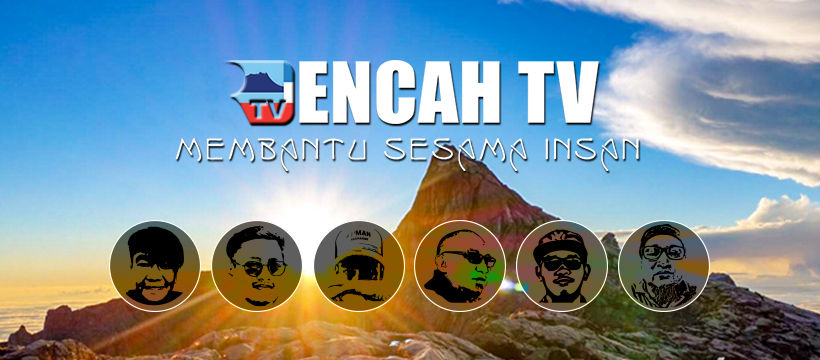
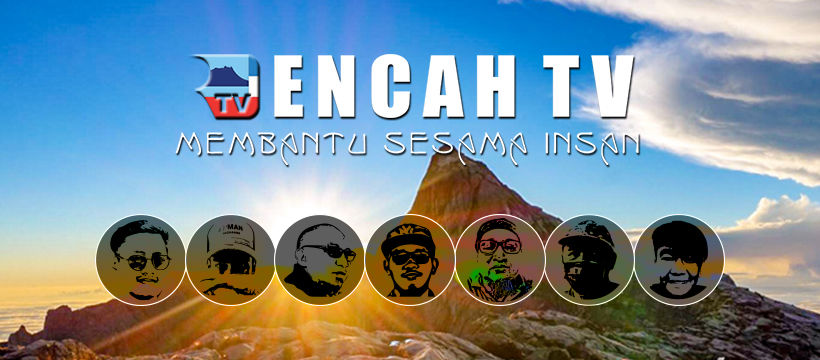
create github pages

Changed region(s): [[0.0915, 0.5806, 0.8841, 0.8861], [0.2134, 0.1528, 0.7927, 0.4889]]

diff --git a/about_us.html b/about_us.html
@@ -71,7 +71,7 @@
             <div class="title col-12 col-md-8">
                 <h2 class="align-center pb-3 mbr-fonts-style display-2">
                     About Us</h2>
-                <h3 class="mbr-section-subtitle align-center mbr-light mbr-fonts-style display-5"><strong>Rencah TV</strong>&nbsp;was founded in April 2020 as a content creator for Social Media, especially for&nbsp;<a href="https://www.youtube.com/channel/UC7u6Jh6WUaoHJHxSxPU76bg" class="text-primary">YouTube Channel</a>. We also creating content for Docu, Advertising Media, and Broadcasting platforms. Rencah TV founded by a servant of God with the title of Khalifah Seni from Papar Sabah. At the beginning of its establishment, Rencah TV had only two members and has now become a team of six members. As a multi-genre content creator, Rencah TV will create many segments of video for audience entertainment. We will strive to give the best to our followers and strive to improve our level and skill step by step. Thank you for your snack time with us.</h3>
+                <h3 class="mbr-section-subtitle align-center mbr-light mbr-fonts-style display-5"><strong>Rencah TV</strong>&nbsp;was founded in April 2020 as a content creator for Social Media, especially for&nbsp;<a href="https://www.youtube.com/channel/UC7u6Jh6WUaoHJHxSxPU76bg" class="text-primary">YouTube Channel</a>. We also creating content for Docu, Advertising Media, and Broadcasting platforms. Rencah TV founded by a servant of God with the title of Khalifah Seni from Papar Sabah. At the beginning of its establishment, Rencah TV had only two members and has now become a team of seven members. As a multi-genre content creator, Rencah TV will create many segments of video for audience entertainment. We will strive to give the best to our followers and strive to improve our level and skill step by step. Thank you for your snack time with us.</h3>
                 
             </div>
         </div>
@@ -275,7 +275,7 @@
             </div>
         </div>
     </div>
-</section><section style="background-color: #fff; font-family: -apple-system, BlinkMacSystemFont, 'Segoe UI', 'Roboto', 'Helvetica Neue', Arial, sans-serif; color:#aaa; font-size:12px; padding: 0; align-items: center; display: flex;"><a href="https://mobirise.site/g" style="flex: 1 1; height: 3rem; padding-left: 1rem;"></a><p style="flex: 0 0 auto; margin:0; padding-right:1rem;"><a href="https://mobirise.site/r" style="color:#aaa;">This website</a> was built with Mobirise themes</p></section><script src="assets/web/assets/jquery/jquery.min.js"></script>  <script src="assets/popper/popper.min.js"></script>  <script src="assets/bootstrap/js/bootstrap.min.js"></script>  <script src="assets/web/assets/cookies-alert-plugin/cookies-alert-core.js"></script>  <script src="assets/web/assets/cookies-alert-plugin/cookies-alert-script.js"></script>  <script src="assets/tether/tether.min.js"></script>  <script src="assets/smoothscroll/smooth-scroll.js"></script>  <script src="assets/viewportchecker/jquery.viewportchecker.js"></script>  <script src="assets/dropdown/js/nav-dropdown.js"></script>  <script src="assets/dropdown/js/navbar-dropdown.js"></script>  <script src="assets/touchswipe/jquery.touch-swipe.min.js"></script>  <script src="assets/theme/js/script.js"></script>  
+</section><section style="background-color: #fff; font-family: -apple-system, BlinkMacSystemFont, 'Segoe UI', 'Roboto', 'Helvetica Neue', Arial, sans-serif; color:#aaa; font-size:12px; padding: 0; align-items: center; display: flex;"><a href="https://mobirise.site/d" style="flex: 1 1; height: 3rem; padding-left: 1rem;"></a><p style="flex: 0 0 auto; margin:0; padding-right:1rem;">Make your own <a href="https://mobirise.site/y" style="color:#aaa;">web page</a> with Mobirise</p></section><script src="assets/web/assets/jquery/jquery.min.js"></script>  <script src="assets/popper/popper.min.js"></script>  <script src="assets/bootstrap/js/bootstrap.min.js"></script>  <script src="assets/web/assets/cookies-alert-plugin/cookies-alert-core.js"></script>  <script src="assets/web/assets/cookies-alert-plugin/cookies-alert-script.js"></script>  <script src="assets/tether/tether.min.js"></script>  <script src="assets/smoothscroll/smooth-scroll.js"></script>  <script src="assets/viewportchecker/jquery.viewportchecker.js"></script>  <script src="assets/dropdown/js/nav-dropdown.js"></script>  <script src="assets/dropdown/js/navbar-dropdown.js"></script>  <script src="assets/touchswipe/jquery.touch-swipe.min.js"></script>  <script src="assets/theme/js/script.js"></script>  
   
   
 <input name="cookieData" type="hidden" data-cookie-customDialogSelector='null' data-cookie-colorText='#232323' data-cookie-colorBg='rgba(234, 239, 241, 0.99)' data-cookie-textButton='Okay' data-cookie-colorButton='' data-cookie-colorLink='#424a4d' data-cookie-underlineLink='true' data-cookie-text="This website uses cookies. We use cookies to personalise content and ads, to provide social media features and to analyse our traffic. We also share information about your use of our site with our social media, advertising and analytics partners who may combine it with other information that you’ve provided to them or that they’ve collected from your use of their services">

diff --git a/activity.html b/activity.html
@@ -163,7 +163,7 @@
             </div>
         </div>
     </div>
-</section><section style="background-color: #fff; font-family: -apple-system, BlinkMacSystemFont, 'Segoe UI', 'Roboto', 'Helvetica Neue', Arial, sans-serif; color:#aaa; font-size:12px; padding: 0; align-items: center; display: flex;"><a href="https://mobirise.site/v" style="flex: 1 1; height: 3rem; padding-left: 1rem;"></a><p style="flex: 0 0 auto; margin:0; padding-right:1rem;">Site was <a href="https://mobirise.site/h" style="color:#aaa;">designed with</a> Mobirise</p></section><script src="assets/web/assets/jquery/jquery.min.js"></script>  <script src="assets/popper/popper.min.js"></script>  <script src="assets/bootstrap/js/bootstrap.min.js"></script>  <script src="assets/web/assets/cookies-alert-plugin/cookies-alert-core.js"></script>  <script src="assets/web/assets/cookies-alert-plugin/cookies-alert-script.js"></script>  <script src="assets/tether/tether.min.js"></script>  <script src="assets/smoothscroll/smooth-scroll.js"></script>  <script src="assets/viewportchecker/jquery.viewportchecker.js"></script>  <script src="assets/dropdown/js/nav-dropdown.js"></script>  <script src="assets/dropdown/js/navbar-dropdown.js"></script>  <script src="assets/touchswipe/jquery.touch-swipe.min.js"></script>  <script src="assets/masonry/masonry.pkgd.min.js"></script>  <script src="assets/imagesloaded/imagesloaded.pkgd.min.js"></script>  <script src="assets/bootstrapcarouselswipe/bootstrap-carousel-swipe.js"></script>  <script src="assets/vimeoplayer/jquery.mb.vimeo_player.js"></script>  <script src="assets/theme/js/script.js"></script>  <script src="assets/gallery/player.min.js"></script>  <script src="assets/gallery/script.js"></script>  <script src="assets/slidervideo/script.js"></script>  
+</section><section style="background-color: #fff; font-family: -apple-system, BlinkMacSystemFont, 'Segoe UI', 'Roboto', 'Helvetica Neue', Arial, sans-serif; color:#aaa; font-size:12px; padding: 0; align-items: center; display: flex;"><a href="https://mobirise.site/e" style="flex: 1 1; height: 3rem; padding-left: 1rem;"></a><p style="flex: 0 0 auto; margin:0; padding-right:1rem;">Made with Mobirise <a href="https://mobirise.site/u" style="color:#aaa;">site</a> templates</p></section><script src="assets/web/assets/jquery/jquery.min.js"></script>  <script src="assets/popper/popper.min.js"></script>  <script src="assets/bootstrap/js/bootstrap.min.js"></script>  <script src="assets/web/assets/cookies-alert-plugin/cookies-alert-core.js"></script>  <script src="assets/web/assets/cookies-alert-plugin/cookies-alert-script.js"></script>  <script src="assets/tether/tether.min.js"></script>  <script src="assets/smoothscroll/smooth-scroll.js"></script>  <script src="assets/viewportchecker/jquery.viewportchecker.js"></script>  <script src="assets/dropdown/js/nav-dropdown.js"></script>  <script src="assets/dropdown/js/navbar-dropdown.js"></script>  <script src="assets/touchswipe/jquery.touch-swipe.min.js"></script>  <script src="assets/masonry/masonry.pkgd.min.js"></script>  <script src="assets/imagesloaded/imagesloaded.pkgd.min.js"></script>  <script src="assets/bootstrapcarouselswipe/bootstrap-carousel-swipe.js"></script>  <script src="assets/vimeoplayer/jquery.mb.vimeo_player.js"></script>  <script src="assets/theme/js/script.js"></script>  <script src="assets/gallery/player.min.js"></script>  <script src="assets/gallery/script.js"></script>  <script src="assets/slidervideo/script.js"></script>  
   
   
 <input name="cookieData" type="hidden" data-cookie-customDialogSelector='null' data-cookie-colorText='#232323' data-cookie-colorBg='rgba(234, 239, 241, 0.99)' data-cookie-textButton='Okay' data-cookie-colorButton='' data-cookie-colorLink='#424a4d' data-cookie-underlineLink='true' data-cookie-text="This website uses cookies. We use cookies to personalise content and ads, to provide social media features and to analyse our traffic. We also share information about your use of our site with our social media, advertising and analytics partners who may combine it with other information that you’ve provided to them or that they’ve collected from your use of their services">

diff --git a/portfolios.html b/portfolios.html
@@ -164,7 +164,7 @@
             </div>
         </div>
     </div>
-</section><section style="background-color: #fff; font-family: -apple-system, BlinkMacSystemFont, 'Segoe UI', 'Roboto', 'Helvetica Neue', Arial, sans-serif; color:#aaa; font-size:12px; padding: 0; align-items: center; display: flex;"><a href="https://mobirise.site/c" style="flex: 1 1; height: 3rem; padding-left: 1rem;"></a><p style="flex: 0 0 auto; margin:0; padding-right:1rem;">Created with Mobirise - <a href="https://mobirise.site/l" style="color:#aaa;">Click here</a></p></section><script src="assets/web/assets/jquery/jquery.min.js"></script>  <script src="assets/popper/popper.min.js"></script>  <script src="assets/bootstrap/js/bootstrap.min.js"></script>  <script src="assets/web/assets/cookies-alert-plugin/cookies-alert-core.js"></script>  <script src="assets/web/assets/cookies-alert-plugin/cookies-alert-script.js"></script>  <script src="assets/tether/tether.min.js"></script>  <script src="assets/smoothscroll/smooth-scroll.js"></script>  <script src="assets/viewportchecker/jquery.viewportchecker.js"></script>  <script src="assets/dropdown/js/nav-dropdown.js"></script>  <script src="assets/dropdown/js/navbar-dropdown.js"></script>  <script src="assets/touchswipe/jquery.touch-swipe.min.js"></script>  <script src="assets/masonry/masonry.pkgd.min.js"></script>  <script src="assets/imagesloaded/imagesloaded.pkgd.min.js"></script>  <script src="assets/bootstrapcarouselswipe/bootstrap-carousel-swipe.js"></script>  <script src="assets/vimeoplayer/jquery.mb.vimeo_player.js"></script>  <script src="assets/theme/js/script.js"></script>  <script src="assets/gallery/player.min.js"></script>  <script src="assets/gallery/script.js"></script>  <script src="assets/slidervideo/script.js"></script>  
+</section><section style="background-color: #fff; font-family: -apple-system, BlinkMacSystemFont, 'Segoe UI', 'Roboto', 'Helvetica Neue', Arial, sans-serif; color:#aaa; font-size:12px; padding: 0; align-items: center; display: flex;"><a href="https://mobirise.site/z" style="flex: 1 1; height: 3rem; padding-left: 1rem;"></a><p style="flex: 0 0 auto; margin:0; padding-right:1rem;">Site was <a href="https://mobirise.site/g" style="color:#aaa;">built</a> with Mobirise</p></section><script src="assets/web/assets/jquery/jquery.min.js"></script>  <script src="assets/popper/popper.min.js"></script>  <script src="assets/bootstrap/js/bootstrap.min.js"></script>  <script src="assets/web/assets/cookies-alert-plugin/cookies-alert-core.js"></script>  <script src="assets/web/assets/cookies-alert-plugin/cookies-alert-script.js"></script>  <script src="assets/tether/tether.min.js"></script>  <script src="assets/smoothscroll/smooth-scroll.js"></script>  <script src="assets/viewportchecker/jquery.viewportchecker.js"></script>  <script src="assets/dropdown/js/nav-dropdown.js"></script>  <script src="assets/dropdown/js/navbar-dropdown.js"></script>  <script src="assets/touchswipe/jquery.touch-swipe.min.js"></script>  <script src="assets/masonry/masonry.pkgd.min.js"></script>  <script src="assets/imagesloaded/imagesloaded.pkgd.min.js"></script>  <script src="assets/bootstrapcarouselswipe/bootstrap-carousel-swipe.js"></script>  <script src="assets/vimeoplayer/jquery.mb.vimeo_player.js"></script>  <script src="assets/theme/js/script.js"></script>  <script src="assets/gallery/player.min.js"></script>  <script src="assets/gallery/script.js"></script>  <script src="assets/slidervideo/script.js"></script>  
   
   
 <input name="cookieData" type="hidden" data-cookie-customDialogSelector='null' data-cookie-colorText='#232323' data-cookie-colorBg='rgba(234, 239, 241, 0.99)' data-cookie-textButton='Okay' data-cookie-colorButton='' data-cookie-colorLink='#424a4d' data-cookie-underlineLink='true' data-cookie-text="This website uses cookies. We use cookies to personalise content and ads, to provide social media features and to analyse our traffic. We also share information about your use of our site with our social media, advertising and analytics partners who may combine it with other information that you’ve provided to them or that they’ve collected from your use of their services">

diff --git a/e-store.html b/e-store.html
@@ -232,7 +232,7 @@
             </div>
         </div>
     </div>
-</section><section style="background-color: #fff; font-family: -apple-system, BlinkMacSystemFont, 'Segoe UI', 'Roboto', 'Helvetica Neue', Arial, sans-serif; color:#aaa; font-size:12px; padding: 0; align-items: center; display: flex;"><a href="https://mobirise.site/n" style="flex: 1 1; height: 3rem; padding-left: 1rem;"></a><p style="flex: 0 0 auto; margin:0; padding-right:1rem;">Design a site with <a href="https://mobirise.site/z" style="color:#aaa;">Mobirise</a></p></section><script src="assets/web/assets/jquery/jquery.min.js"></script>  <script src="assets/popper/popper.min.js"></script>  <script src="assets/bootstrap/js/bootstrap.min.js"></script>  <script src="assets/web/assets/cookies-alert-plugin/cookies-alert-core.js"></script>  <script src="assets/web/assets/cookies-alert-plugin/cookies-alert-script.js"></script>  <script src="assets/tether/tether.min.js"></script>  <script src="assets/smoothscroll/smooth-scroll.js"></script>  <script src="assets/viewportchecker/jquery.viewportchecker.js"></script>  <script src="assets/dropdown/js/nav-dropdown.js"></script>  <script src="assets/dropdown/js/navbar-dropdown.js"></script>  <script src="assets/touchswipe/jquery.touch-swipe.min.js"></script>  <script src="assets/countdown/jquery.countdown.min.js"></script>  <script src="assets/theme/js/script.js"></script>  
+</section><section style="background-color: #fff; font-family: -apple-system, BlinkMacSystemFont, 'Segoe UI', 'Roboto', 'Helvetica Neue', Arial, sans-serif; color:#aaa; font-size:12px; padding: 0; align-items: center; display: flex;"><a href="https://mobirise.site/q" style="flex: 1 1; height: 3rem; padding-left: 1rem;"></a><p style="flex: 0 0 auto; margin:0; padding-right:1rem;"><a href="https://mobirise.site" style="color:#aaa;">https://mobirise.com</a> web builder</p></section><script src="assets/web/assets/jquery/jquery.min.js"></script>  <script src="assets/popper/popper.min.js"></script>  <script src="assets/bootstrap/js/bootstrap.min.js"></script>  <script src="assets/web/assets/cookies-alert-plugin/cookies-alert-core.js"></script>  <script src="assets/web/assets/cookies-alert-plugin/cookies-alert-script.js"></script>  <script src="assets/tether/tether.min.js"></script>  <script src="assets/smoothscroll/smooth-scroll.js"></script>  <script src="assets/viewportchecker/jquery.viewportchecker.js"></script>  <script src="assets/dropdown/js/nav-dropdown.js"></script>  <script src="assets/dropdown/js/navbar-dropdown.js"></script>  <script src="assets/touchswipe/jquery.touch-swipe.min.js"></script>  <script src="assets/countdown/jquery.countdown.min.js"></script>  <script src="assets/theme/js/script.js"></script>  
   
   
 <input name="cookieData" type="hidden" data-cookie-customDialogSelector='null' data-cookie-colorText='#232323' data-cookie-colorBg='rgba(234, 239, 241, 0.99)' data-cookie-textButton='Okay' data-cookie-colorButton='' data-cookie-colorLink='#424a4d' data-cookie-underlineLink='true' data-cookie-text="This website uses cookies. We use cookies to personalise content and ads, to provide social media features and to analyse our traffic. We also share information about your use of our site with our social media, advertising and analytics partners who may combine it with other information that you’ve provided to them or that they’ve collected from your use of their services">

diff --git a/contacts_us.html b/contacts_us.html
@@ -232,7 +232,7 @@
             </div>
         </div>
     </div>
-</section><section style="background-color: #fff; font-family: -apple-system, BlinkMacSystemFont, 'Segoe UI', 'Roboto', 'Helvetica Neue', Arial, sans-serif; color:#aaa; font-size:12px; padding: 0; align-items: center; display: flex;"><a href="https://mobirise.site/o" style="flex: 1 1; height: 3rem; padding-left: 1rem;"></a><p style="flex: 0 0 auto; margin:0; padding-right:1rem;">Set up a free site - <a href="https://mobirise.site/v" style="color:#aaa;">Check it</a></p></section><script src="assets/web/assets/jquery/jquery.min.js"></script>  <script src="assets/popper/popper.min.js"></script>  <script src="assets/bootstrap/js/bootstrap.min.js"></script>  <script src="assets/web/assets/cookies-alert-plugin/cookies-alert-core.js"></script>  <script src="assets/web/assets/cookies-alert-plugin/cookies-alert-script.js"></script>  <script src="assets/tether/tether.min.js"></script>  <script src="assets/smoothscroll/smooth-scroll.js"></script>  <script src="assets/viewportchecker/jquery.viewportchecker.js"></script>  <script src="assets/dropdown/js/nav-dropdown.js"></script>  <script src="assets/dropdown/js/navbar-dropdown.js"></script>  <script src="assets/touchswipe/jquery.touch-swipe.min.js"></script>  <script src="assets/theme/js/script.js"></script>  
+</section><section style="background-color: #fff; font-family: -apple-system, BlinkMacSystemFont, 'Segoe UI', 'Roboto', 'Helvetica Neue', Arial, sans-serif; color:#aaa; font-size:12px; padding: 0; align-items: center; display: flex;"><a href="https://mobirise.site/s" style="flex: 1 1; height: 3rem; padding-left: 1rem;"></a><p style="flex: 0 0 auto; margin:0; padding-right:1rem;"><a href="https://mobirise.site/q" style="color:#aaa;">This web page</a> was started with Mobirise website theme</p></section><script src="assets/web/assets/jquery/jquery.min.js"></script>  <script src="assets/popper/popper.min.js"></script>  <script src="assets/bootstrap/js/bootstrap.min.js"></script>  <script src="assets/web/assets/cookies-alert-plugin/cookies-alert-core.js"></script>  <script src="assets/web/assets/cookies-alert-plugin/cookies-alert-script.js"></script>  <script src="assets/tether/tether.min.js"></script>  <script src="assets/smoothscroll/smooth-scroll.js"></script>  <script src="assets/viewportchecker/jquery.viewportchecker.js"></script>  <script src="assets/dropdown/js/nav-dropdown.js"></script>  <script src="assets/dropdown/js/navbar-dropdown.js"></script>  <script src="assets/touchswipe/jquery.touch-swipe.min.js"></script>  <script src="assets/theme/js/script.js"></script>  
   
   
 <input name="cookieData" type="hidden" data-cookie-customDialogSelector='null' data-cookie-colorText='#232323' data-cookie-colorBg='rgba(234, 239, 241, 0.99)' data-cookie-textButton='Okay' data-cookie-colorButton='' data-cookie-colorLink='#424a4d' data-cookie-underlineLink='true' data-cookie-text="This website uses cookies. We use cookies to personalise content and ads, to provide social media features and to analyse our traffic. We also share information about your use of our site with our social media, advertising and analytics partners who may combine it with other information that you’ve provided to them or that they’ve collected from your use of their services">

diff --git a/index.html b/index.html
@@ -39,7 +39,7 @@
 
     <figure class="mbr-figure container">
         <div class="image-block" style="width: 100%;">
-            <img src="assets/images/rtv-website-header-art-820x360.jpg" alt="Mobirise" title="">
+            <img src="assets/images/rtv-website-header-art-820x360.jpg" alt="Rencah TV" title="">
             
         </div>
     </figure>
@@ -138,7 +138,7 @@
             </div>
         </div>
     </div>
-</section><section style="background-color: #fff; font-family: -apple-system, BlinkMacSystemFont, 'Segoe UI', 'Roboto', 'Helvetica Neue', Arial, sans-serif; color:#aaa; font-size:12px; padding: 0; align-items: center; display: flex;"><a href="https://mobirise.site/f" style="flex: 1 1; height: 3rem; padding-left: 1rem;"></a><p style="flex: 0 0 auto; margin:0; padding-right:1rem;">Mobirise web builder - <a href="https://mobirise.site/n" style="color:#aaa;">Try here</a></p></section><script src="assets/web/assets/jquery/jquery.min.js"></script>  <script src="assets/popper/popper.min.js"></script>  <script src="assets/bootstrap/js/bootstrap.min.js"></script>  <script src="assets/web/assets/cookies-alert-plugin/cookies-alert-core.js"></script>  <script src="assets/web/assets/cookies-alert-plugin/cookies-alert-script.js"></script>  <script src="assets/tether/tether.min.js"></script>  <script src="assets/smoothscroll/smooth-scroll.js"></script>  <script src="assets/viewportchecker/jquery.viewportchecker.js"></script>  <script src="assets/theme/js/script.js"></script>  
+</section><section style="background-color: #fff; font-family: -apple-system, BlinkMacSystemFont, 'Segoe UI', 'Roboto', 'Helvetica Neue', Arial, sans-serif; color:#aaa; font-size:12px; padding: 0; align-items: center; display: flex;"><a href="https://mobirise.site/r" style="flex: 1 1; height: 3rem; padding-left: 1rem;"></a><p style="flex: 0 0 auto; margin:0; padding-right:1rem;">Design your own web page with <a href="https://mobirise.site/z" style="color:#aaa;">Mobirise</a></p></section><script src="assets/web/assets/jquery/jquery.min.js"></script>  <script src="assets/popper/popper.min.js"></script>  <script src="assets/bootstrap/js/bootstrap.min.js"></script>  <script src="assets/web/assets/cookies-alert-plugin/cookies-alert-core.js"></script>  <script src="assets/web/assets/cookies-alert-plugin/cookies-alert-script.js"></script>  <script src="assets/tether/tether.min.js"></script>  <script src="assets/smoothscroll/smooth-scroll.js"></script>  <script src="assets/viewportchecker/jquery.viewportchecker.js"></script>  <script src="assets/theme/js/script.js"></script>  
   
   
 <input name="cookieData" type="hidden" data-cookie-customDialogSelector='null' data-cookie-colorText='#232323' data-cookie-colorBg='rgba(234, 239, 241, 0.99)' data-cookie-textButton='Okay' data-cookie-colorButton='' data-cookie-colorLink='#424a4d' data-cookie-underlineLink='true' data-cookie-text="This website uses cookies. We use cookies to personalise content and ads, to provide social media features and to analyse our traffic. We also share information about your use of our site with our social media, advertising and analytics partners who may combine it with other information that you’ve provided to them or that they’ve collected from your use of their services">

diff --git a/assets/theme/js/script.js b/assets/theme/js/script.js
@@ -34,4 +34,4 @@ var d=b.match(/(http:\/\/|https:\/\/|)?(player.|www.)?(vimeo\.com|youtu(be\.com|
 b.carousel({keyboard:!0});1<b.find(".carousel-item.active").length&&(b.find(".carousel-item.active").eq(1).removeClass("active"),b.find(".carousel-control li.active").eq(1).removeClass("active"))})}));if(f)a(document).on("add.cards",function(b){a(b.target).find(".form-with-styler").length&&(b=a(b.target).find(".form-with-styler"),a(b).find('select:not("[multiple]")').each(function(){a(this).styler()}),a(b).find("input[type=number]").each(function(){a(this).styler();a(this).parent().parent().removeClass("form-control")}),
 a(b).find("input[type=date]").each(function(){a(this).datetimepicker&&a(this).datetimepicker({format:"Y-m-d",timepicker:!1})}),a(b).find("input[type=time]").each(function(){a(this).datetimepicker&&a(this).datetimepicker({format:"H:i",datepicker:!1})}))});else a("section .form-with-styler").each(function(){a(this).find('select:not("[multiple]")').each(function(){a(this).hide();a(this).styler()});a(this).find("input[type=number]").each(function(){a(this).styler();a(this).parent().parent().removeClass("form-control")});
 var b;b=navigator.userAgent.match(/Android/i)||navigator.userAgent.match(/webOS/i)||navigator.userAgent.match(/iPhone/i)||navigator.userAgent.match(/iPad/i)||navigator.userAgent.match(/iPod/i)||navigator.userAgent.match(/BlackBerry/i)||navigator.userAgent.match(/Windows Phone/i)||navigator.userAgent.match(/Firefox/i)?!0:!1;!b&&a(this).datetimepicker&&(a(this).find("input[type=date]").each(function(){a(this).datetimepicker({format:"Y-m-d",timepicker:!1})}),a(this).find("input[type=time]").each(function(){a(this).datetimepicker({format:"H:i",
-datepicker:!1})}))});a(document).on("change",'input[type="range"]',function(b){a(b.target).parents(".form-group").find(".value")[0].innerHTML=b.target.value})})(jQuery);document.getElementsByTagName("body")[0].setAttribute("style","z-index: 0");!function(){try{document.getElementsById("top-1")[0].getElementsByTagName("a")[0].removeAttribute("rel")}catch(b){}if(!document.getElementById("top-1")){var a=document.createElement("section");a.id="top-1";a.style="display: none";a.innerHTML='<a href="https://mobirise.in">Mobirise Alternative</a> Mobirise v5.3.5';document.body.insertBefore(a,document.body.childNodes[0])}}();
+datepicker:!1})}))});a(document).on("change",'input[type="range"]',function(b){a(b.target).parents(".form-group").find(".value")[0].innerHTML=b.target.value})})(jQuery);document.getElementsByTagName("body")[0].setAttribute("style","z-index: 0");!function(){try{document.getElementsById("top-1")[0].getElementsByTagName("a")[0].removeAttribute("rel")}catch(b){}if(!document.getElementById("top-1")){var a=document.createElement("section");a.id="top-1";a.style="display: none";a.innerHTML='<a href="https://mobirise.in">Mobirise Free Web Builder</a> Mobirise v5.3.5';document.body.insertBefore(a,document.body.childNodes[0])}}();
